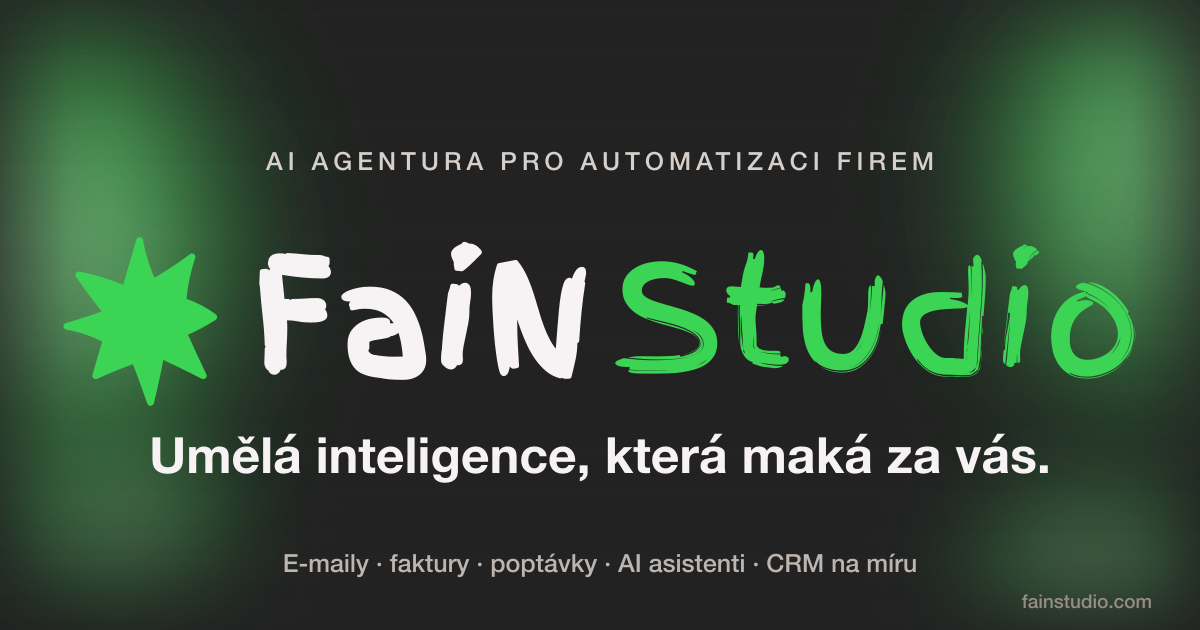
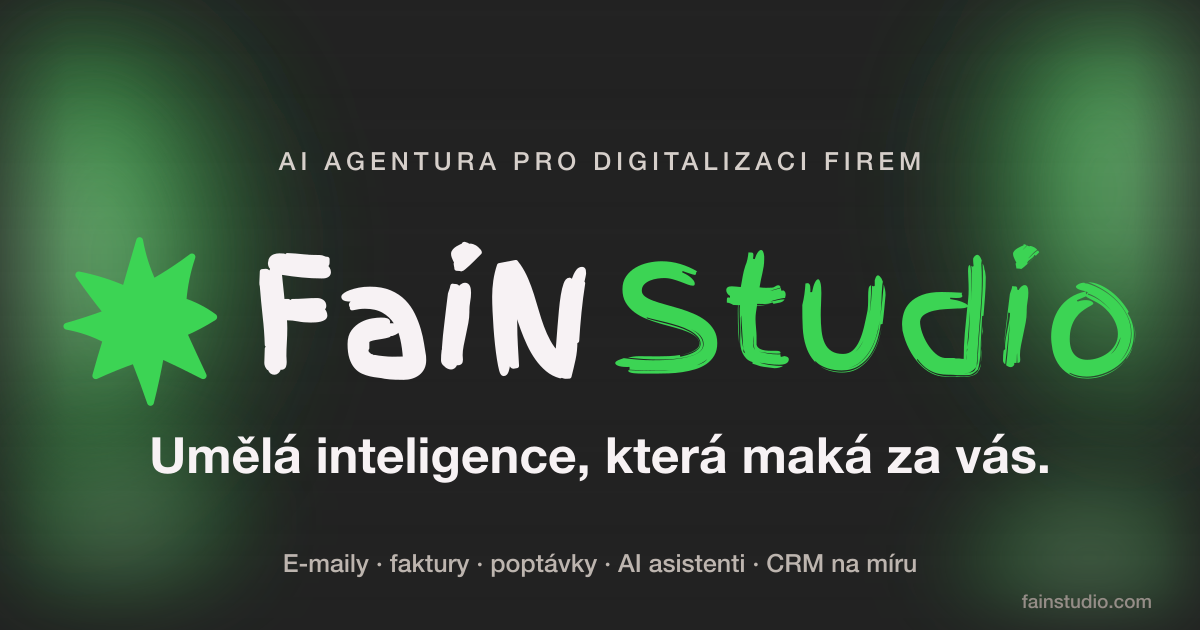
Copy: 'automatizace' replaced by 'AI digitalizace' (hero, FAQ, SEO, llms.txt, OG image); legal 'automatizované rozhodování' kept

Changed region(s): [[0.2158, 0.2413, 0.8017, 0.2714]]

diff --git a/lib/seo.ts b/lib/seo.ts
@@ -3,9 +3,9 @@
  * Jedno místo pro titulky, popisy a strukturovaná data (JSON-LD), ať se nerozjedou.
  *
  * Klíčová slova, na která web míří (pořadí = priorita):
- *   AI automatizace · AI agentura · automatizace firemních procesů · umělá inteligence pro firmy
- *   AI asistent pro firmu · automatizace administrativy · zpracování faktur a dokumentů pomocí AI
- *   automatizace e-mailů a poptávek · CRM a interní nástroje na míru · AI agentura
+ *   AI digitalizace · AI agentura · AI digitalizace firemních procesů · umělá inteligence pro firmy
+ *   AI asistent pro firmu · AI digitalizace administrativy · zpracování faktur a dokumentů pomocí AI
+ *   AI digitalizace e-mailů a poptávek · CRM a interní nástroje na míru · AI agentura
  * Pravidlo: slova musí stát i ve viditelném textu, ne jen v metadatech.
  */
 import { about, faq, systems } from './content';
@@ -15,24 +15,24 @@ export const SITE = 'https://fainstudio.com';
 export const BRAND = 'FaiN Studio';
 
 export const seo = {
-  title: 'AI automatizace pro firmy | AI agentura FaiN Studio',
+  title: 'AI digitalizace pro firmy | AI agentura FaiN Studio',
   description:
-    'AI agentura. Automatizujeme firemní procesy pomocí umělé inteligence: e-maily, faktury, poptávky, dokumenty, CRM i AI asistenty na míru.',
-  ogTitle: 'AI automatizace, která maká za vás | FaiN Studio',
+    'AI agentura. Digitalizujeme firemní procesy pomocí umělé inteligence: e-maily, faktury, poptávky, dokumenty, CRM i AI asistenty na míru.',
+  ogTitle: 'AI digitalizace, která maká za vás | FaiN Studio',
   ogDescription:
     'Postavíme systém s umělou inteligencí, který převezme opakovanou práci ve vaší firmě. E-maily, faktury, poptávky, dokumenty i interní nástroje. Data zůstávají vaše.',
   keywords: [
-    'AI automatizace',
+    'AI digitalizace',
     'AI agentura',
-    'automatizace firemních procesů',
-    'automatizace procesů',
+    'AI digitalizace firemních procesů',
+    'AI digitalizace procesů',
     'umělá inteligence pro firmy',
     'AI pro firmy',
     'AI asistent pro firmu',
-    'automatizace administrativy',
+    'AI digitalizace administrativy',
     'zpracování faktur AI',
     'zpracování dokumentů',
-    'automatizace e-mailů',
+    'AI digitalizace e-mailů',
     'zpracování poptávek',
     'CRM na míru',
     'interní nástroje na míru',
@@ -42,12 +42,12 @@ export const seo = {
 
 /** Témata, kterým rozumíme (schema.org knowsAbout): pro vyhledávače i AI asistenty. */
 const KNOWS = [
-  'AI automatizace',
-  'Automatizace firemních procesů',
+  'AI digitalizace',
+  'AI digitalizace firemních procesů',
   'Umělá inteligence pro firmy',
   'AI asistenti a chatboti nad firemními daty',
   'Zpracování faktur a dokumentů pomocí AI',
-  'Automatizace e-mailů a poptávek',
+  'AI digitalizace e-mailů a poptávek',
   'CRM a interní nástroje na míru',
   'Sběr a monitoring dat z webu',
   'Webové aplikace a rezervační systémy',
@@ -88,14 +88,14 @@ export function homeJsonLd() {
         },
         hasOfferCatalog: {
           '@type': 'OfferCatalog',
-          name: 'AI automatizace a systémy na míru',
+          name: 'AI digitalizace a systémy na míru',
           itemListElement: systems.items.map((s) => ({
             '@type': 'Offer',
             itemOffered: {
               '@type': 'Service',
               name: s.name,
               description: s.text,
-              serviceType: 'AI automatizace',
+              serviceType: 'AI digitalizace',
               provider: { '@id': ORG_ID },
               areaServed: { '@type': 'Country', name: 'Česko' },
             },
@@ -106,7 +106,7 @@ export function homeJsonLd() {
         '@type': 'Person',
         '@id': PERSON_ID,
         name: NAME,
-        jobTitle: 'Zakladatel, AI automatizace',
+        jobTitle: 'Zakladatel, AI digitalizace',
         worksFor: { '@id': ORG_ID },
         email: EMAIL,
         knowsAbout: KNOWS,

diff --git a/lib/content.ts b/lib/content.ts
@@ -7,11 +7,11 @@
 export const hero = {
   // první řádek nadpisu; druhý se píše a maže (components/HeroRotate.tsx)
   // malý nadtitulek nad nadpisem: hlavní klíčová slova, viditelná a uvnitř H1
-  kicker: 'AI agentura pro automatizaci firem',
+  kicker: 'AI agentura pro digitalizaci firem',
   title: 'Umělá inteligence,',
   rotateLead: 'která',
   rotate: ['šetří čas', 'maká za vás', 'šetří peníze', 'usnadňuje práci', 'je FaiN'],
-  titleSr: 'AI agentura pro automatizaci firem. Umělá inteligence, která šetří čas, maká za vás, šetří peníze, usnadňuje práci a je FaiN.',
+  titleSr: 'AI agentura pro digitalizaci firem. Umělá inteligence, která šetří čas, maká za vás, šetří peníze, usnadňuje práci a je FaiN.',
   lead: 'Skoro každá firma dělá něco, co by zvládl systém. Máte nápad? Postavíme ho. Nemáte? Projdeme to spolu.',
   primary: 'Mám zájem',
   secondary: 'Co všechno umíme',
@@ -39,7 +39,7 @@ export const systems = {
     },
     {
       id: 'procesy',
-      name: 'Automatizace procesů',
+      name: 'AI digitalizace procesů',
       short: 'Procesy',
       text: 'Jedním klikem spustíte celý řetězec kroků napříč nástroji, které už používáte. Smlouvy, účty, objednávky i maily se rozjedou samy a vy vidíte, co je hotové.',
     },
@@ -303,8 +303,8 @@ export const compare = {
 
 export const faq = [
   {
-    q: 'Co je AI automatizace?',
-    a: 'Systém, který za vás dělá opakovanou práci a přitom rozumí textu. Přečte e-mail, fakturu nebo poptávku, pochopí, co v ní je, a podle toho jedná. Běžná automatizace jen přesouvá data podle pevných pravidel. S umělou inteligencí zvládne i práci, ke které byl dřív potřeba člověk.',
+    q: 'Co je AI digitalizace?',
+    a: 'Systém, který za vás dělá opakovanou práci a přitom rozumí textu. Přečte e-mail, fakturu nebo poptávku, pochopí, co v ní je, a podle toho jedná. Běžná digitalizace jen přesouvá data podle pevných pravidel. S umělou inteligencí zvládne i práci, ke které byl dřív potřeba člověk.',
   },
   {
     q: 'Pro koho to je? Nevíme, co by šlo zlepšit.',
@@ -340,7 +340,7 @@ export const about = {
   name: 'Matyáš Plecháč',
   ico: '21019011',
   verify: 'Ověřit v ARES',
-  text: 'Stavíme automatizace, interní nástroje, sběr dat a weby. Od prvního hovoru až po předání se s vámi bavíme my, bez prostředníků.',
+  text: 'Stavíme AI digitalizaci, interní nástroje, sběr dat a weby. Od prvního hovoru až po předání se s vámi bavíme my, bez prostředníků.',
   /*
    * REFERENCE — ZATÍM SKRYTÉ.
    * Nezobrazovat, dokud zadavatel nemá od každého klienta písemný souhlas

diff --git a/app/layout.tsx b/app/layout.tsx
@@ -26,7 +26,7 @@ export const metadata: Metadata = {
     siteName: BRAND,
     title: seo.ogTitle,
     description: seo.ogDescription,
-    images: [{ url: '/og.png', width: 1200, height: 630, alt: 'FaiN Studio: AI agentura pro automatizaci firem' }],
+    images: [{ url: '/og.png', width: 1200, height: 630, alt: 'FaiN Studio: AI agentura pro digitalizaci firem' }],
   },
   twitter: {
     card: 'summary_large_image',
